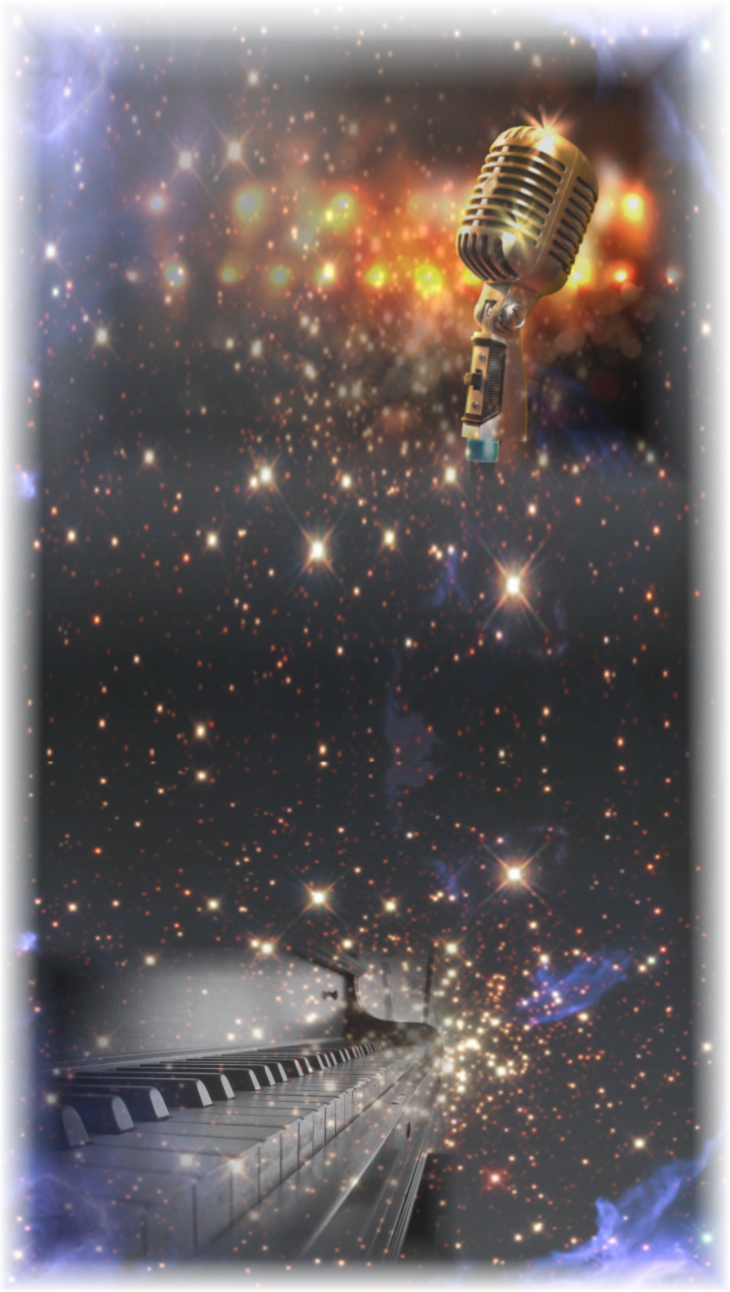
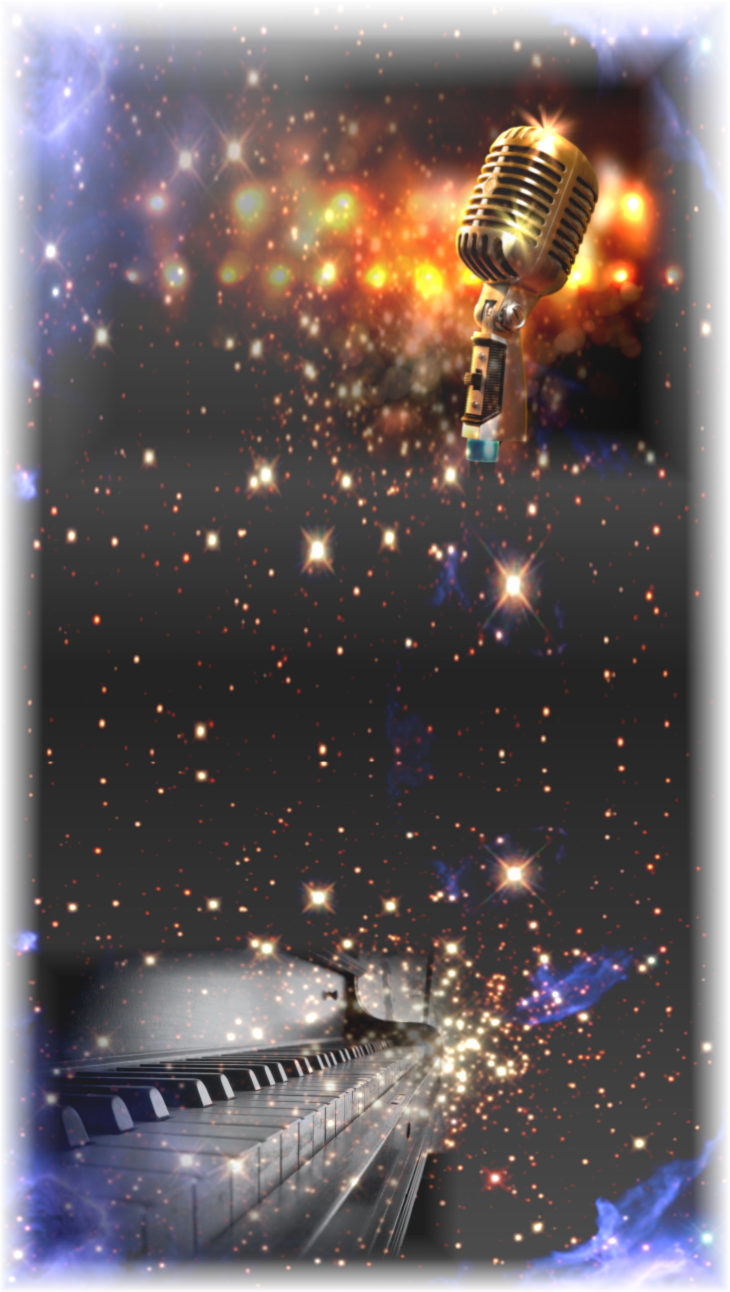
image position

diff --git a/src/components/hero/hero.js b/src/components/hero/hero.js
@@ -22,6 +22,7 @@ const useStyles = makeStyles(theme => ({
     backgroundColor: "#000000",
   },
   heroImage: {
+    display: "block",
     backgroundColor: "#000000",
     minHeight: theme.spacing(50),
     maxHeight: "calc(100vh - 3rem)",
@@ -35,13 +36,13 @@ const useStyles = makeStyles(theme => ({
     // left="40%"
     left: 0,
     right: 0,
+    // margin: "0 auto",
     marginLeft: "auto",
     marginRight: "auto",
     minWidth: 300,
-    width: "35%",
-    "&Top": {
-      width: "100%",
-    },
+    width: "30%",
+    // minHeight: "20%",
+    // maxHeight: "40%",
     [theme.breakpoints.down("md")]: {
       top: "20%",
       minWidth: 300,
@@ -158,6 +159,8 @@ const Hero = props => {
             <StaticImage
               layout="constrained"
               placeholder="none"
+              width={588}
+              height={419}
               src="../../images/hero_logo.png"
               alt="StartDust Jazz Duo"
               transformOptions={{ fit: "cover" }}
@@ -181,6 +184,8 @@ const Hero = props => {
             >
               <StaticImage
                 layout="constrained"
+                width={588}
+                height={419}
                 placeholder="none"
                 src="../../images/hero_logo_top.png"
                 alt="StartDust Jazz Duo"

diff --git a/src/components/footer/footer.js b/src/components/footer/footer.js
@@ -21,11 +21,7 @@ const Footer = () => {
   const classes = useStyles()
   const copyright = "Star Dust Jazz Duo"
   return (
-    <Box
-      component="footer"
-      className={classes.footer}
-      backgroundColor="primary"
-    >
+    <Box component="footer" className={classes.footer}>
       <Box padding={1}>
         <Box textAlign="center" marginTop={2}>
           <Typography variant="caption" color="secondary">
